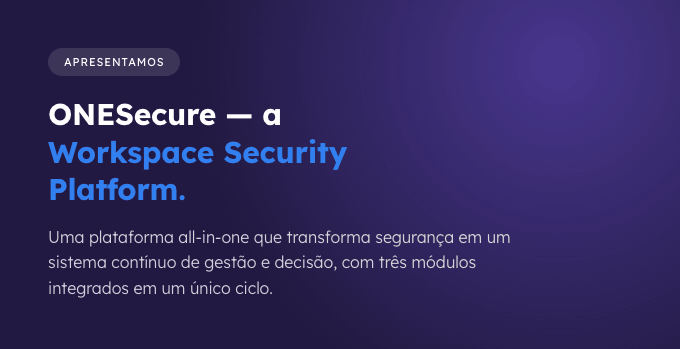
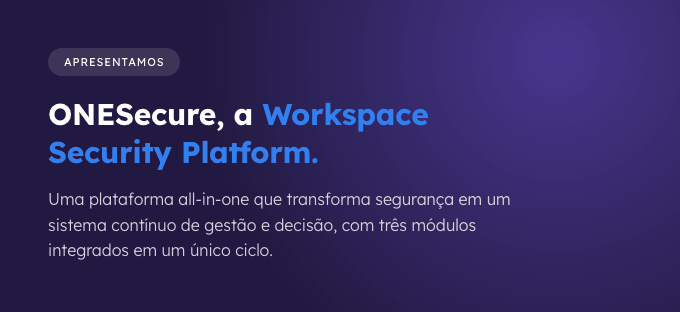
Add files via upload

Changed region(s): [[0.0618, 0.6058, 0.7721, 0.8654], [0.0618, 0.2885, 0.6485, 0.5769], [0.0618, 0.1154, 0.2779, 0.2596]]

diff --git a/email-para-envio.html b/email-para-envio.html
@@ -7,7 +7,7 @@
 <meta name="x-apple-disable-message-reformatting">
 <meta name="color-scheme" content="light only">
 <meta name="supported-color-schemes" content="light only">
-<title>ONESecure — Sua segurança está estruturada?</title>
+<title>ONESecure | Sua segurança está estruturada?</title>
 <!--[if mso]>
 <noscript><xml><o:OfficeDocumentSettings><o:PixelsPerInch>96</o:PixelsPerInch></o:OfficeDocumentSettings></xml></noscript>
 <![endif]-->
@@ -46,7 +46,7 @@
           <!-- HERO (image) -->
           <tr>
             <td style="font-size:0;line-height:0;">
-              <img src="https://onesecure-emailmkt.vercel.app/email-assets/hero.png" width="680" alt="ONESecure — Sua segurança está estruturada ou apenas instalada?" style="display:block;width:100%;max-width:680px;height:auto;border:0;">
+              <img src="https://onesecure-emailmkt.vercel.app/email-assets/hero.png" width="680" alt="ONESecure | Sua segurança está estruturada ou apenas instalada?" style="display:block;width:100%;max-width:680px;height:auto;border:0;">
             </td>
           </tr>
 
@@ -54,7 +54,7 @@
           <tr>
             <td class="pad pad-v" bgcolor="#E6EDFF" style="background:#E6EDFF;padding:44px 48px 40px 48px;">
               <p style="margin:0 0 18px 0;font-family:'Lexend',Arial,Helvetica,sans-serif;font-weight:700;font-size:20px;line-height:1.3;color:#211941;">Olá, [Nome].</p>
-              <p style="margin:0;font-family:'Lexend',Arial,Helvetica,sans-serif;font-weight:300;font-size:17px;line-height:1.6;color:#45406A;">74% das violações de segurança envolvem fator humano. A maioria começa com uma identidade comprometida — e o tempo médio para identificar e conter um incidente ainda revela o tamanho do problema.</p>
+              <p style="margin:0;font-family:'Lexend',Arial,Helvetica,sans-serif;font-weight:300;font-size:17px;line-height:1.6;color:#45406A;">74% das violações de segurança envolvem fator humano. A maioria começa com uma identidade comprometida, e o tempo médio para identificar e conter um incidente ainda revela o tamanho do problema.</p>
 
               <!-- stats card -->
               <table role="presentation" width="100%" cellpadding="0" cellspacing="0" border="0" bgcolor="#ffffff" style="background:#ffffff;border-radius:16px;margin-top:26px;">
@@ -85,7 +85,7 @@
               </tr></table>
 
               <p style="margin:18px 0 16px 0;font-family:'Lexend',Arial,Helvetica,sans-serif;font-weight:700;font-size:26px;line-height:1.3;letter-spacing:-0.01em;color:#211941;">O problema raramente é falta de ferramenta. É falta de integração.</p>
-              <p style="margin:0 0 22px 0;font-family:'Lexend',Arial,Helvetica,sans-serif;font-weight:300;font-size:17px;line-height:1.6;color:#45406A;">Firewall, EDR, SIEM, antivírus — cada um no seu canto, sem visão unificada de risco, sem método, sem governança mensurável. A segurança fragmentada protege pontos, não ambientes.</p>
+              <p style="margin:0 0 22px 0;font-family:'Lexend',Arial,Helvetica,sans-serif;font-weight:300;font-size:17px;line-height:1.6;color:#45406A;">Firewall, EDR, SIEM, antivírus, cada um no seu canto, sem visão unificada de risco, sem método, sem governança mensurável. A segurança fragmentada protege pontos, não ambientes.</p>
               <p style="margin:0 0 12px 0;font-family:'Lexend',Arial,Helvetica,sans-serif;font-size:11px;font-weight:400;letter-spacing:0.08em;text-transform:uppercase;color:#8C88A3;">Ferramentas isoladas, sem contexto</p>
 
               <!-- chips -->
@@ -109,7 +109,7 @@
           <!-- REVEAL (image) -->
           <tr>
             <td style="font-size:0;line-height:0;">
-              <img src="https://onesecure-emailmkt.vercel.app/email-assets/reveal.png" width="680" alt="Apresentamos ONESecure — a Workspace Security Platform." style="display:block;width:100%;max-width:680px;height:auto;border:0;">
+              <img src="https://onesecure-emailmkt.vercel.app/email-assets/reveal.png" width="680" alt="Apresentamos ONESecure, a Workspace Security Platform." style="display:block;width:100%;max-width:680px;height:auto;border:0;">
             </td>
           </tr>
 
@@ -164,7 +164,7 @@
           <!-- ONESCORE (image, on light bg) -->
           <tr>
             <td bgcolor="#E6EDFF" style="background:#E6EDFF;font-size:0;line-height:0;padding-bottom:16px;">
-              <img src="https://onesecure-emailmkt.vercel.app/email-assets/score.png" width="680" alt="ONEScore — índice que traduz sua postura de segurança em linguagem executiva." style="display:block;width:100%;max-width:680px;height:auto;border:0;">
+              <img src="https://onesecure-emailmkt.vercel.app/email-assets/score.png" width="680" alt="ONEScore, índice que traduz sua postura de segurança em linguagem executiva." style="display:block;width:100%;max-width:680px;height:auto;border:0;">
             </td>
           </tr>
 
@@ -208,13 +208,13 @@
               <table role="presentation" cellpadding="0" cellspacing="0" border="0" align="center"><tr>
                 <td align="center" bgcolor="#ffffff" style="background:#ffffff;border-radius:16px;">
                   <!--[if mso]>
-                  <v:roundrect xmlns:v="urn:schemas-microsoft-com:vml" xmlns:w="urn:schemas-microsoft-com:office:word" href="#" style="height:52px;v-text-anchor:middle;width:260px;" arcsize="31%" stroke="f" fillcolor="#ffffff">
+                  <v:roundrect xmlns:v="urn:schemas-microsoft-com:vml" xmlns:w="urn:schemas-microsoft-com:office:word" href="https://wa.me/5511970110618?text=Ol%C3%A1%21%20Gostaria%20de%20agendar%20uma%20conversa%20sobre%20o%20ONESecure." style="height:52px;v-text-anchor:middle;width:260px;" arcsize="31%" stroke="f" fillcolor="#ffffff">
                   <w:anchorlock/>
                   <center style="color:#0132A5;font-family:Arial,sans-serif;font-size:14px;font-weight:bold;letter-spacing:1px;">AGENDAR UMA CONVERSA</center>
                   </v:roundrect>
                   <![endif]-->
                   <!--[if !mso]><!-- -->
-                  <a href="#" style="display:inline-block;padding:16px 30px;font-family:'Lexend',Arial,Helvetica,sans-serif;font-size:14px;font-weight:400;letter-spacing:0.08em;text-transform:uppercase;color:#0132A5;text-decoration:none;border-radius:16px;background:#ffffff;">Agendar uma conversa</a>
+                  <a href="https://wa.me/5511970110618?text=Ol%C3%A1%21%20Gostaria%20de%20agendar%20uma%20conversa%20sobre%20o%20ONESecure." target="_blank" style="display:inline-block;padding:16px 30px;font-family:'Lexend',Arial,Helvetica,sans-serif;font-size:14px;font-weight:400;letter-spacing:0.08em;text-transform:uppercase;color:#0132A5;text-decoration:none;border-radius:16px;background:#ffffff;">Agendar uma conversa</a>
                   <!--<![endif]-->
                 </td>
               </tr></table>

diff --git a/email.html b/email.html
@@ -7,7 +7,7 @@
 <meta name="x-apple-disable-message-reformatting">
 <meta name="color-scheme" content="light only">
 <meta name="supported-color-schemes" content="light only">
-<title>ONESecure — Sua segurança está estruturada?</title>
+<title>ONESecure | Sua segurança está estruturada?</title>
 <!--[if mso]>
 <noscript><xml><o:OfficeDocumentSettings><o:PixelsPerInch>96</o:PixelsPerInch></o:OfficeDocumentSettings></xml></noscript>
 <![endif]-->
@@ -46,7 +46,7 @@
           <!-- HERO (image) -->
           <tr>
             <td style="font-size:0;line-height:0;">
-              <img src="email-assets/hero.png" width="680" alt="ONESecure — Sua segurança está estruturada ou apenas instalada?" style="display:block;width:100%;max-width:680px;height:auto;border:0;">
+              <img src="email-assets/hero.png" width="680" alt="ONESecure | Sua segurança está estruturada ou apenas instalada?" style="display:block;width:100%;max-width:680px;height:auto;border:0;">
             </td>
           </tr>
 
@@ -54,7 +54,7 @@
           <tr>
             <td class="pad pad-v" bgcolor="#E6EDFF" style="background:#E6EDFF;padding:44px 48px 40px 48px;">
               <p style="margin:0 0 18px 0;font-family:'Lexend',Arial,Helvetica,sans-serif;font-weight:700;font-size:20px;line-height:1.3;color:#211941;">Olá, [Nome].</p>
-              <p style="margin:0;font-family:'Lexend',Arial,Helvetica,sans-serif;font-weight:300;font-size:17px;line-height:1.6;color:#45406A;">74% das violações de segurança envolvem fator humano. A maioria começa com uma identidade comprometida — e o tempo médio para identificar e conter um incidente ainda revela o tamanho do problema.</p>
+              <p style="margin:0;font-family:'Lexend',Arial,Helvetica,sans-serif;font-weight:300;font-size:17px;line-height:1.6;color:#45406A;">74% das violações de segurança envolvem fator humano. A maioria começa com uma identidade comprometida, e o tempo médio para identificar e conter um incidente ainda revela o tamanho do problema.</p>
 
               <!-- stats card -->
               <table role="presentation" width="100%" cellpadding="0" cellspacing="0" border="0" bgcolor="#ffffff" style="background:#ffffff;border-radius:16px;margin-top:26px;">
@@ -85,7 +85,7 @@
               </tr></table>
 
               <p style="margin:18px 0 16px 0;font-family:'Lexend',Arial,Helvetica,sans-serif;font-weight:700;font-size:26px;line-height:1.3;letter-spacing:-0.01em;color:#211941;">O problema raramente é falta de ferramenta. É falta de integração.</p>
-              <p style="margin:0 0 22px 0;font-family:'Lexend',Arial,Helvetica,sans-serif;font-weight:300;font-size:17px;line-height:1.6;color:#45406A;">Firewall, EDR, SIEM, antivírus — cada um no seu canto, sem visão unificada de risco, sem método, sem governança mensurável. A segurança fragmentada protege pontos, não ambientes.</p>
+              <p style="margin:0 0 22px 0;font-family:'Lexend',Arial,Helvetica,sans-serif;font-weight:300;font-size:17px;line-height:1.6;color:#45406A;">Firewall, EDR, SIEM, antivírus, cada um no seu canto, sem visão unificada de risco, sem método, sem governança mensurável. A segurança fragmentada protege pontos, não ambientes.</p>
               <p style="margin:0 0 12px 0;font-family:'Lexend',Arial,Helvetica,sans-serif;font-size:11px;font-weight:400;letter-spacing:0.08em;text-transform:uppercase;color:#8C88A3;">Ferramentas isoladas, sem contexto</p>
 
               <!-- chips -->
@@ -109,7 +109,7 @@
           <!-- REVEAL (image) -->
           <tr>
             <td style="font-size:0;line-height:0;">
-              <img src="email-assets/reveal.png" width="680" alt="Apresentamos ONESecure — a Workspace Security Platform." style="display:block;width:100%;max-width:680px;height:auto;border:0;">
+              <img src="email-assets/reveal.png" width="680" alt="Apresentamos ONESecure, a Workspace Security Platform." style="display:block;width:100%;max-width:680px;height:auto;border:0;">
             </td>
           </tr>
 
@@ -164,7 +164,7 @@
           <!-- ONESCORE (image, on light bg) -->
           <tr>
             <td bgcolor="#E6EDFF" style="background:#E6EDFF;font-size:0;line-height:0;padding-bottom:16px;">
-              <img src="email-assets/score.png" width="680" alt="ONEScore — índice que traduz sua postura de segurança em linguagem executiva." style="display:block;width:100%;max-width:680px;height:auto;border:0;">
+              <img src="email-assets/score.png" width="680" alt="ONEScore, índice que traduz sua postura de segurança em linguagem executiva." style="display:block;width:100%;max-width:680px;height:auto;border:0;">
             </td>
           </tr>
 
@@ -208,13 +208,13 @@
               <table role="presentation" cellpadding="0" cellspacing="0" border="0" align="center"><tr>
                 <td align="center" bgcolor="#ffffff" style="background:#ffffff;border-radius:16px;">
                   <!--[if mso]>
-                  <v:roundrect xmlns:v="urn:schemas-microsoft-com:vml" xmlns:w="urn:schemas-microsoft-com:office:word" href="#" style="height:52px;v-text-anchor:middle;width:260px;" arcsize="31%" stroke="f" fillcolor="#ffffff">
+                  <v:roundrect xmlns:v="urn:schemas-microsoft-com:vml" xmlns:w="urn:schemas-microsoft-com:office:word" href="https://wa.me/5511970110618?text=Ol%C3%A1%21%20Gostaria%20de%20agendar%20uma%20conversa%20sobre%20o%20ONESecure." style="height:52px;v-text-anchor:middle;width:260px;" arcsize="31%" stroke="f" fillcolor="#ffffff">
                   <w:anchorlock/>
                   <center style="color:#0132A5;font-family:Arial,sans-serif;font-size:14px;font-weight:bold;letter-spacing:1px;">AGENDAR UMA CONVERSA</center>
                   </v:roundrect>
                   <![endif]-->
                   <!--[if !mso]><!-- -->
-                  <a href="#" style="display:inline-block;padding:16px 30px;font-family:'Lexend',Arial,Helvetica,sans-serif;font-size:14px;font-weight:400;letter-spacing:0.08em;text-transform:uppercase;color:#0132A5;text-decoration:none;border-radius:16px;background:#ffffff;">Agendar uma conversa</a>
+                  <a href="https://wa.me/5511970110618?text=Ol%C3%A1%21%20Gostaria%20de%20agendar%20uma%20conversa%20sobre%20o%20ONESecure." target="_blank" style="display:inline-block;padding:16px 30px;font-family:'Lexend',Arial,Helvetica,sans-serif;font-size:14px;font-weight:400;letter-spacing:0.08em;text-transform:uppercase;color:#0132A5;text-decoration:none;border-radius:16px;background:#ffffff;">Agendar uma conversa</a>
                   <!--<![endif]-->
                 </td>
               </tr></table>
